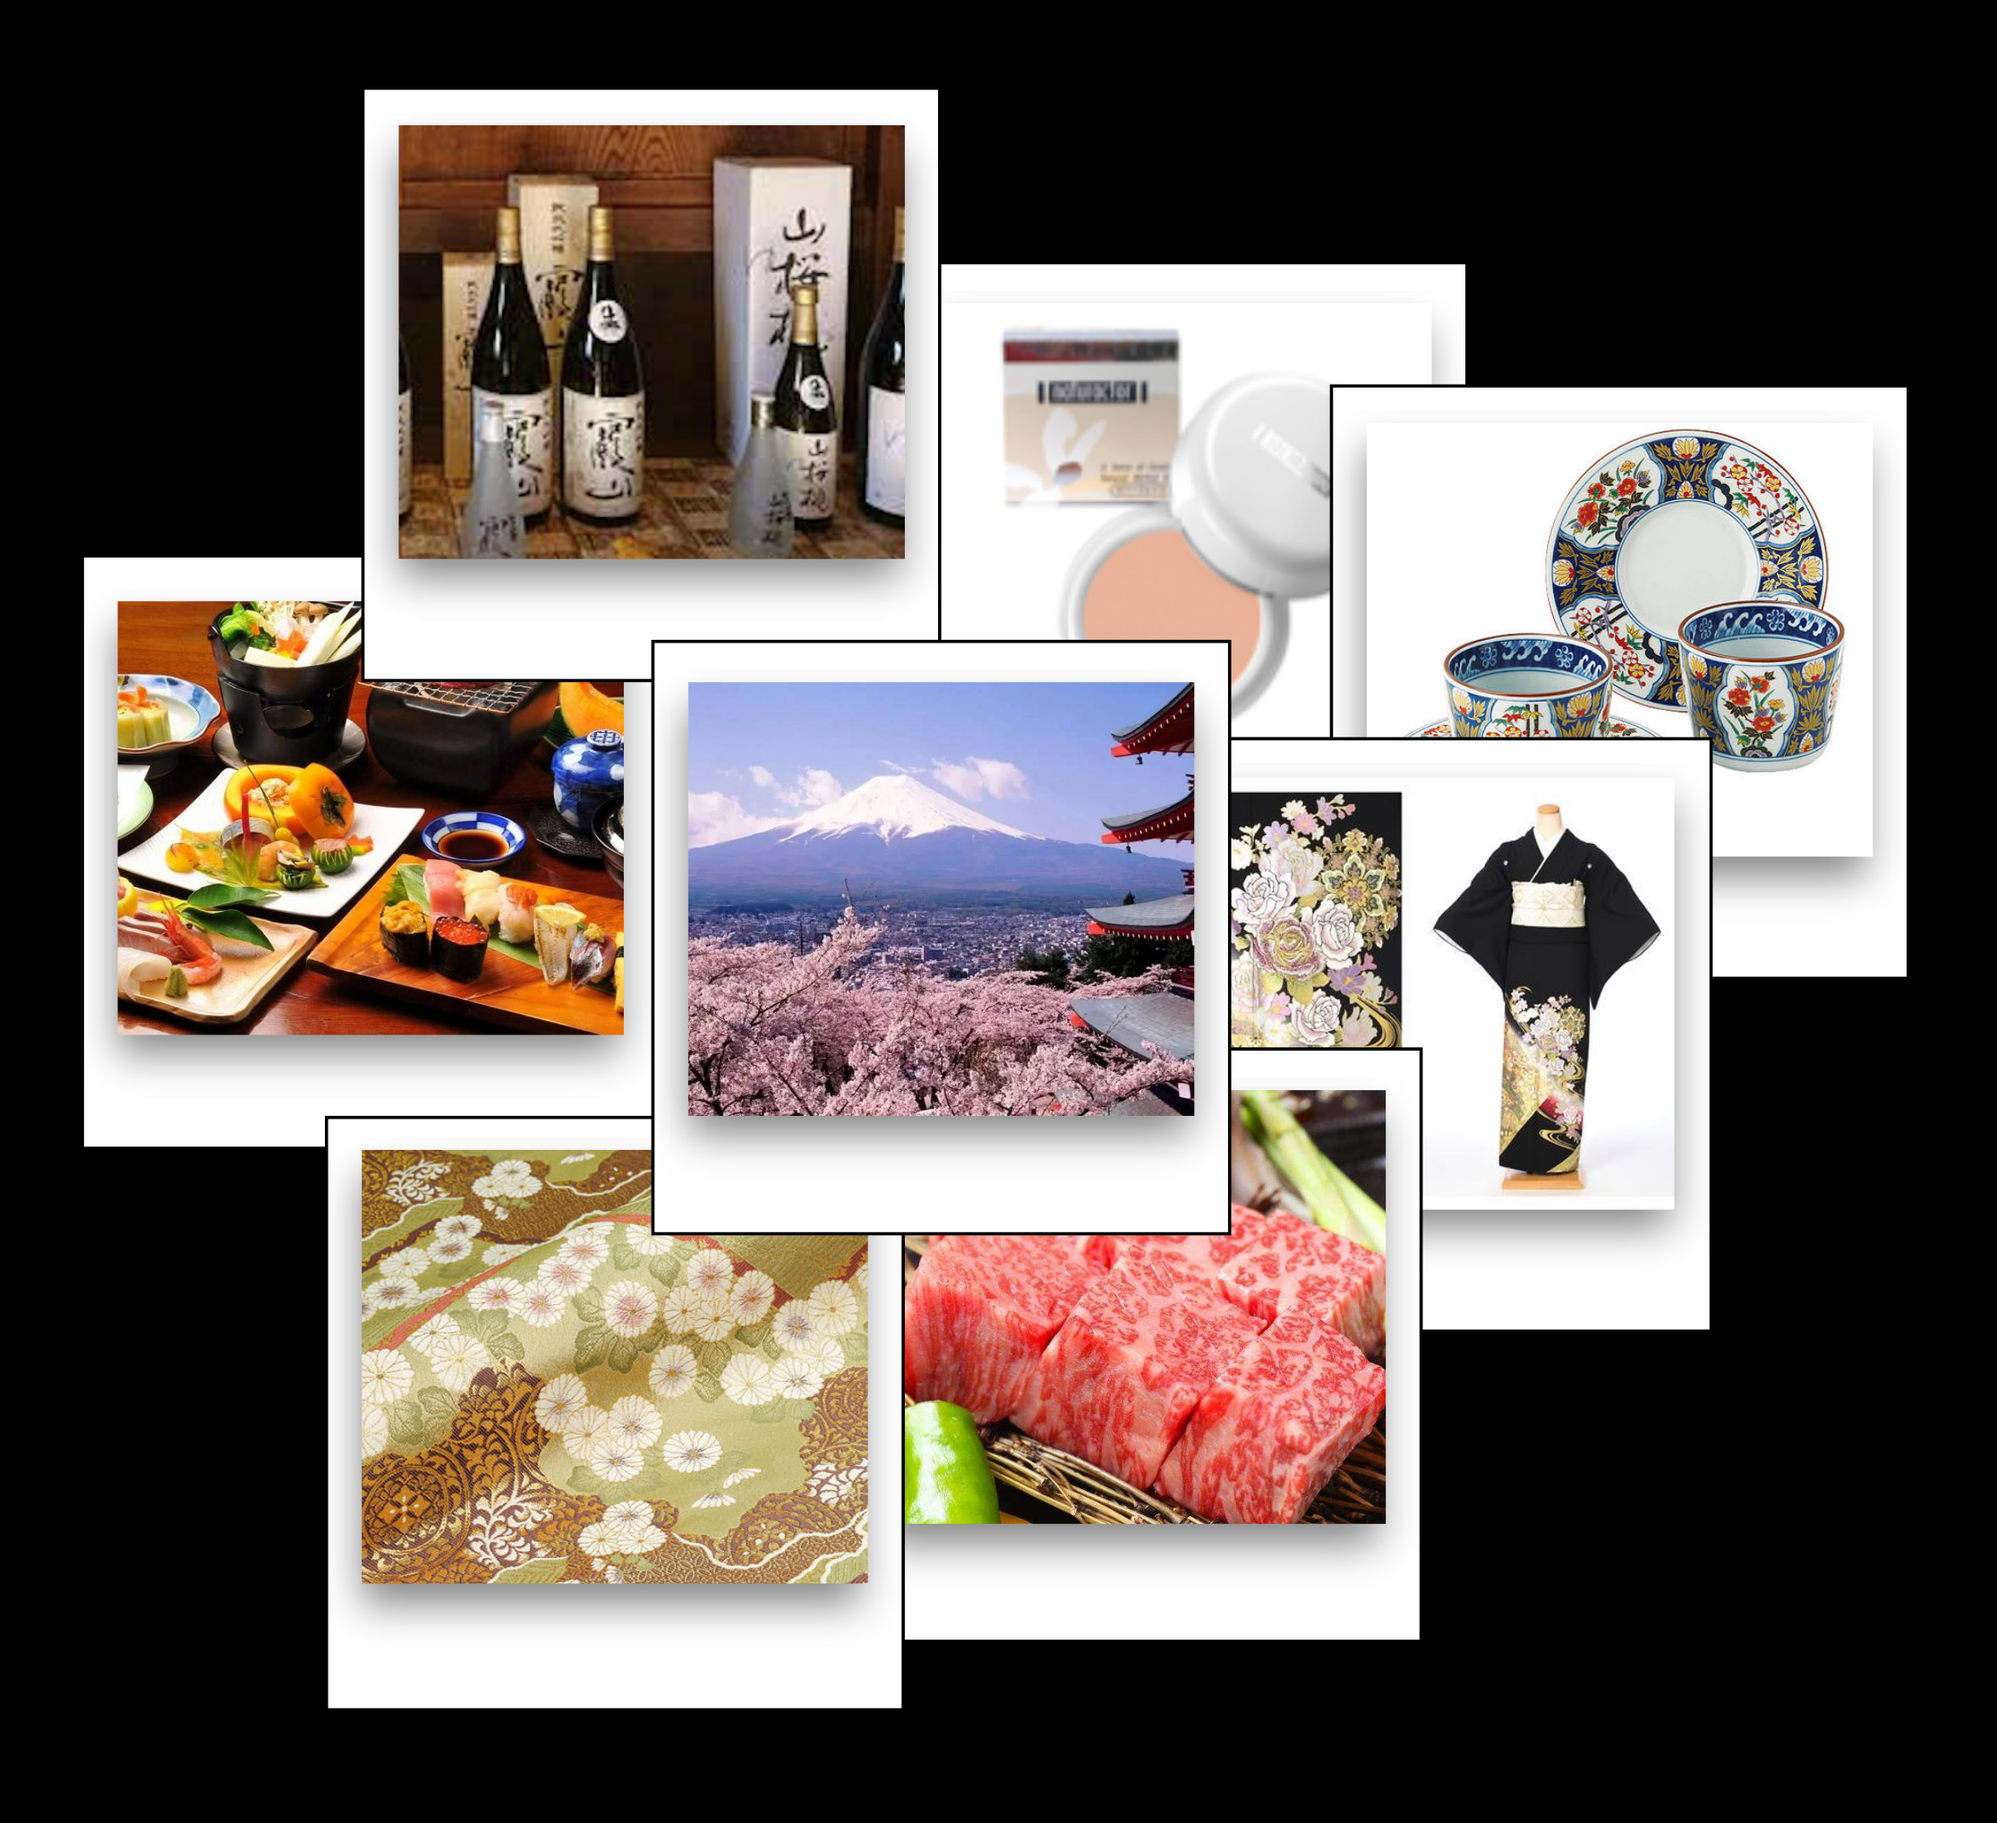
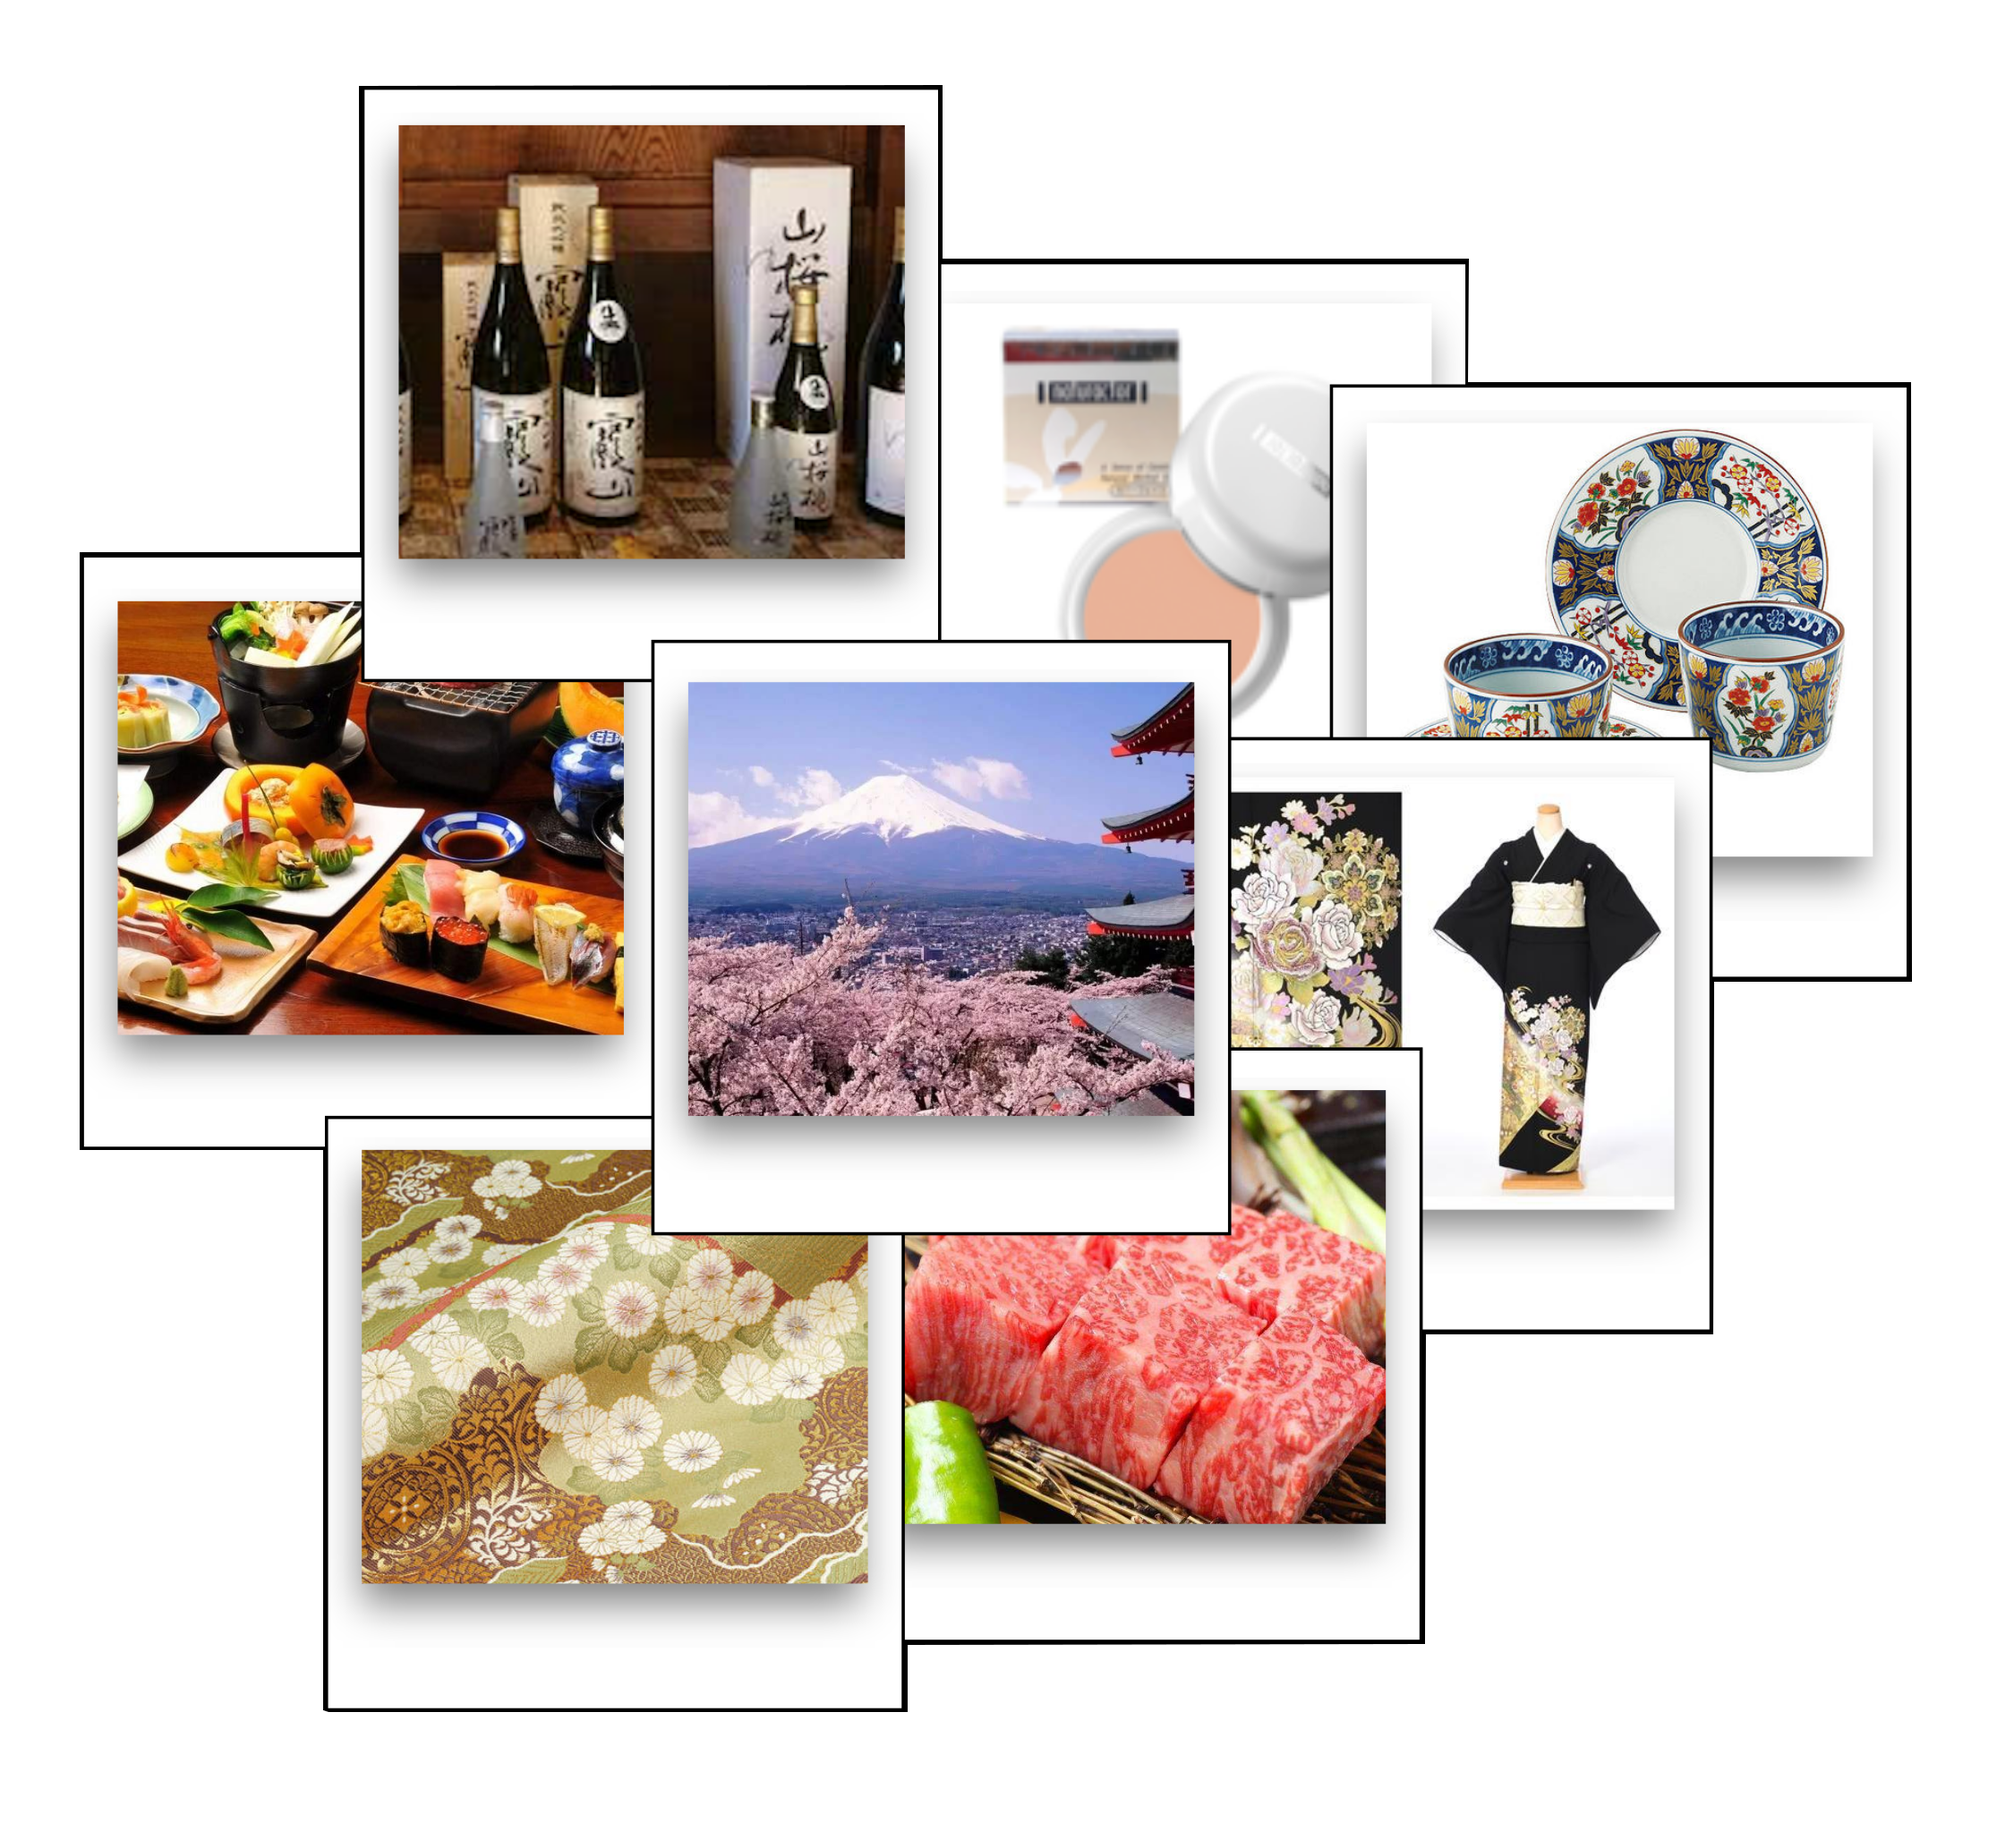
changed background to white

diff --git a/index.css b/index.css
@@ -179,6 +179,6 @@ img {
     }
 
 .index-title {
-    background-color: #000000;
-    color: #eeeeee;
+    background-color: #ffffff;
+    color: #808080;
 }
